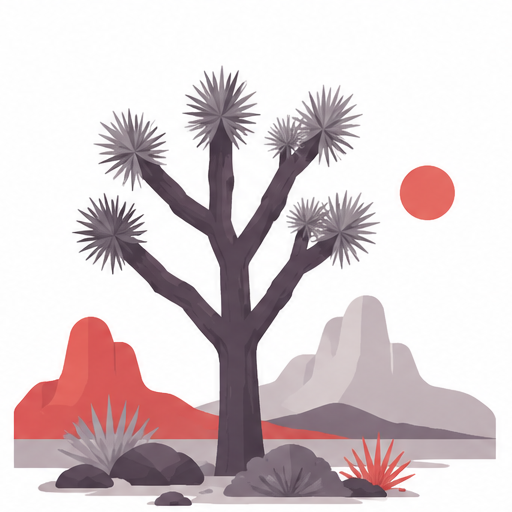
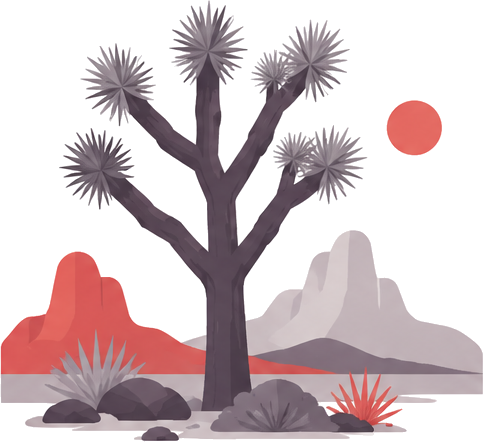
Remove white background from Joshua Tree and scale to fill frame

diff --git a/index.html b/index.html
@@ -385,7 +385,7 @@ each its own room.</h2>
     </div>
     <div class="story-body">
       <div class="story-illo">
-        <img src="assets/joshuatree.png" alt="Joshua Tree desert landscape" style="width:100%;height:100%;object-fit:contain;">
+        <img src="assets/joshuatree.png" alt="Joshua Tree desert landscape" style="width:auto;height:100%;max-width:none;object-fit:contain;">
       </div>
       <p class="story-lede">The inspiration began in the deserts of Joshua Tree, in a moment of unusual clarity. Three brothers found ourselves at the same inflection. Aligned in the problems we cared about, the skills we'd built, and where we were in life.</p>
       <p class="story-body-text">